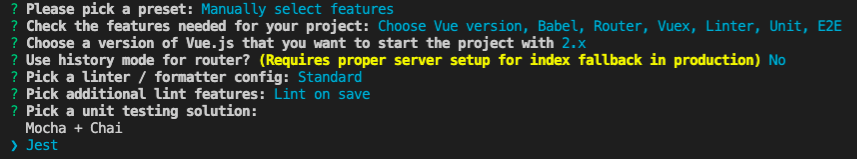
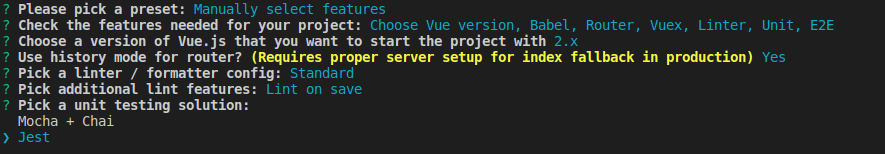
chore(index.md) audited twice

Changed region(s): [[0.0, 0.0, 1.0, 0.961]]

diff --git a/docs/01-vue-cli-install.md b/docs/01-vue-cli-install.md
@@ -6,74 +6,91 @@ nav_order: 1
 
 # Creando un proyecto usando CLI y framework UI
 
-Comenzaremos creando un proyecto a través de la línea de comandos de Vue. Si no la tienes puedes instalarla con el siguiente comando
+Comenzaremos creando un proyecto a través de la línea de comandos de Vue. Si no la tienes puedes instalarla con el siguiente comando.
 
 ```bash
 npm install -g @vue/cli
 ```
 
-Una vez instalado navegamos por la terminal hacia el directorio donde queremos crear el proyecto y ejecutamos el siguiente comando:
+Una vez instalada, navegamos por la terminal hacia el directorio donde crearemos el proyecto y ejecutamos el siguiente comando:
 
 ```bash
 vue create <nombre-de-tu-proyecto>
 ```
 
-Deberemos contestar una serie de preguntas. Veamos en detalle que responderemos a cada una de ellas.
+Durante el proceso debemos seleccionar las opciones que Vue CLI configurará por nosotros. Iremos paso a paso detallando el proceso de selección.
 
-1) Seleccionaremos la opción que nos permita seleccionar manualmente las tecnologías que usaremos
-![Imagen de paso 1 de instalación](images/01-vue-cli-install-01.png?raw=true)
+1) En primer lugar nos pregunta si queremos usar un *preset*, pero iremos a la última opción (utilizando las flechas del teclado) y presionamos *enter*. Esto nos permitirá seleccionar manualmente los plugins que usaremos.
+   
+   ![Imagen de paso 1 de instalación](images/01-vue-cli-install-01.png)
 
-2) Utilizando la tecla `espacio` agregaremos las opciones que puedes ver en la siguiente imagen
-![Imagen de paso 2 de instalación](images/01-vue-cli-install-02.png?raw=true)
+2) En la siguiente etapa, utilizando la tecla `espacio`, agregaremos las opciones que puedes ver en la siguiente imagen.
 
-3) Elegiremos la versión 2 de Vue
-![Imagen de paso 3 de instalación](images/01-vue-cli-install-03.png?raw=true)
+   ![Imagen de paso 2 de instalación](images/01-vue-cli-install-02.png)
 
-4) Seleccionar `Y` para configurar History mode y posteriormente haremos la configuración requerida para el servidor en Express. Más detalles en [este link](https://router.vuejs.org/guide/essentials/history-mode.html#html5-history-mode)
-![Imagen de paso 4 de instalación](images/01-vue-cli-install-04.png?raw=true)
+3) Seleccionamos la versión 2 de Vue
+
+   ![Imagen de paso 3 de instalación](images/01-vue-cli-install-03.png)
+
+4) En el siguiente paso seleccionar `Y` para configurar History mode en el router. Posteriormente haremos la configuración requerida en servidor en Express. Más detalles en [este link](https://router.vuejs.org/guide/essentials/history-mode.html#html5-history-mode)
+
+   ![Imagen de paso 4 de instalación](images/01-vue-cli-install-04.png?raw=true)
+
+>**Tip**: En las CLI la opción que se da con mayúscula es la opción por defecto. Por lo que puedes simplemente presionar enter 
+si te pregunta (Y/n) y queremos seleccionar 'Y'
 
 5) Utilizaremos la configuración de Javascript estándar para la herramienta [ESLint](https://eslint.org/). Si quieres conocer más detalles sobre este estándar puedes visitar [este link](https://standardjs.com/)  
-![Imagen de paso 5 de instalación](images/01-vue-cli-install-05.png?raw=true)
 
-6) Selecciona lint on save 
-   ![Lint on save](images/01-vue-cli-install-05-b.png?raw=true)
+   ![Imagen de paso 5 de instalación](images/01-vue-cli-install-05.png)
 
-7) Utilizaremos [Jest](https://jestjs.io/) para crear pruebas de integración en el proyecto.
-![Imagen de paso 6 de instalación](images/01-vue-cli-install-06.png?raw=true)
+6) Continuamos con lint on save para que las correcciones del linter ocurran de forma constante en la medida que desarrollamos  
+   
+   ![Lint on save](images/01-vue-cli-install-05-b.png)
 
-8) Utilizaremos [Cypress](https://www.cypress.io/) para crear pruebas e2e.
-![Imagen de paso 7 de instalación](images/01-vue-cli-install-07.png?raw=true)
+7) En la parte de pruebas unitarias seleccionaremos [Jest](https://jestjs.io/) para crear pruebas de integración. Jest es un framework completo y eficiente para hacer pruebas (viene con *runner*, *aserciones* y trabaja con un *DOM virtual*).
+   
+   ![Imagen de paso 6 de instalación](images/01-vue-cli-install-06.png)
 
-9) Seleccionaremos la opción que nos permite que las configuraciones de las herramientas de desarrollo como `ESLint` tenga su propio archivo de configuración
-![Imagen de paso 8 de instalación](images/01-vue-cli-install-08.png?raw=true)
+8) Seleccionamos [Cypress](https://www.cypress.io/) para crear pruebas e2e. Cypress se está poniendo en duda varios de los paradigmas en torno a las pruebas de alto nivel. Cada vez es más rápido y barato hacer estas pruebas gracias a Cypress. 
 
-10) Finalmente damos enter para utilizar la opción por defecto (por convención es la opción en mayúsculas)
-![Imagen de paso 9 de instalación](images/01-vue-cli-install-09.png?raw=true)
+   ![Imagen de paso 7 de instalación](images/01-vue-cli-install-07.png)
 
-Esto creará una carpeta con la estructura inicial y todo lo necesario para construir nuestra aplicación Frontend.
+9) Seleccionaremos la opción que nos permite que las configuraciones de las herramientas de desarrollo como `ESLint` tenga su propio archivo de configuración.
+ 
+   ![Imagen de paso 8 de instalación](images/01-vue-cli-install-08.png)
 
-Una vez terminada la instalación ingresamos al repositorio recién creado y agregaremos [Vuetify](https://vuetifyjs.com/) (durante el proceso de instalación  vue-cli ejecutó `git init`) utilizando el siguiente comando:
+10) Finalmente damos enter para utilizar la opción por defecto.
+
+   ![Imagen de paso 9 de instalación](images/01-vue-cli-install-09.png)
+
+Esto creará una carpeta con la estructura inicial y todo lo necesario para construir nuestra aplicación Frontend. Durante este proceso Vue CLI configuró [Webpack](https://webpack.js.org/). Webpack es una herramienta que nos permite tener códigos amigables para desarrollar y los trasforma en códigos amigables para el navegador. Esto lo logra aplicando una serie de transformaciones (*loaders*) cada vez de vemos nuestras aplicación ejecutándose en un navegador. Las etapas más importantes que hizo Vue CLI fueron:
+   +  Configurar el uso de *Single file components* (.vue) 
+   +  Configurar Babel para las últimas versiones de ECMAScript
+   +  Activar *Hot Module Replacement* en [webpack-dev-server](https://github.com/webpack/webpack-dev-server) para que al guardar los cambios se reflejen inmediatamente en el navegador
+
+
+Una vez terminada la instalación ingresamos al repositorio recién creado y agregaremos [Vuetify](https://vuetifyjs.com/)  utilizando el siguiente comando:
 
 ```bash
 vue add vuetify
 ```
 
-Vuetify es una de las tantas (Buefy, Element, Bootstrap Vue) librerías de componentes UI de alta productividad para Vue.
+> Decimos *repositorio* porque durante el proceso de instalación  Vue CLI ejecutó `git init` por nosotros.
 
-Nos preguntará si queremos seleccionar algún tipo de configuración. Seleccionaremos la opción predeterminada como muestra la siguiente imagen:
+Vuetify es una de las tantas librerías de componentes UI de alta productividad para Vue (Buefy, Element, Bootstrap Vue, etc).
 
-![Imagen de paso 10 de instalación](images/01-vue-cli-install-10.png?raw=true)
+En este caso sí usaremos el *preset* recomendado por defecto, por lo que seleccionaremos la opción predeterminada como muestra la siguiente imagen:
 
-Ya hemos instalado todo lo necesario para comenzar nuestro proyecto Frontend.
-Al correr el comando `npm run serve` y luego yendo al navegador en la dirección `http://localhost:8080/` veremos lo siguiente:
+![Imagen de paso 10 de instalación](images/01-vue-cli-install-10.png)
 
+Ya hemos instalado todo lo necesario para comenzar nuestro proyecto Frontend. Al correr el comando `npm run serve` e ir al navegador en la dirección `http://localhost:8080/` veremos lo siguiente:
 
-![Imagen resultado final de instalaciones](images/01-vue-cli-install-11.png?raw=true)
+![Imagen resultado final de instalaciones](images/01-vue-cli-install-11.png)
 
-Para finalizar agregaremos los cambios  sumados por Vuetify a Git. Para esto comenzeremos a utilizar el formato de [Conventional Commits](https://github.com/conventional-changelog/commitlint/tree/master/%40commitlint/config-conventional) para escribir los mensajes de commit. Escribamos el siguiente comando:
+Para finalizar este capítulo agregaremos los cambios hechos por Vuetify a Git. En esta guía usaremos el formato de [Conventional Commits](https://github.com/conventional-changelog/commitlint/tree/master/%40commitlint/config-conventional) para escribir los mensajes de los commits. Por lo que nos dirigimos a la terminal y ejecutamos lo siguiente:
 
 ```bash
 git add .
-git commit -m "chore(vuetify): Create Vue project with Vuetify"
+git commit -m "chore(set-up): Create a Vue project with Vue-CLI and Vuetify"
 ```
-Listo! ya estamos preparados para ir al siguiente paso de la construcción del proyecto .
+Listo! Ya estamos preparados para ir al siguiente capítulo y continuar con la construcción del proyecto.

diff --git a/index.md b/index.md
@@ -5,11 +5,11 @@ nav_order: 0
 ---
 # Proyecto de desarrollo ágil: Aplicación Fullstack Javascript 
 
-Esta guía es parte del proyecto final del curso Fullstack Javascript para programadores. Está enfocado en aplicar los conocimientos del curso más la metodología de desarrollo ágil en un proyecto digital utilizando javascript en todo el stack. Se ejemplifican técnicas profesionales de refactorización y mejora contínua para solucionar bugs y mejorar la calidad y flexibilidad del código. 
+Esta guía es parte del proyecto final del curso Fullstack Javascript para programadores. Está enfocado en aplicar los conocimientos del curso más la metodología de desarrollo ágil en un proyecto digital utilizando javascript en todo el stack. Se ejemplifican técnicas profesionales de refactorización que permiten entre otras cosas solucionar bugs y mejorar la calidad y flexibilidad del código. 
 
 **Con esta guía el estudiante podrá:**
-  1) Poner en producción el resultado de un sprint que será la base para su futura personalización. 
-  2) Practicar técnicas para trabajar con aplicaciones *legacy* mediante pruebas 
+  1) Poner en producción el resultado de un sprint que será la base para su futura personalización y proyecto final del curso. 
+  2) Practicar técnicas para trabajar con aplicaciones *legacy* mediante pruebas. 
 
 **Advertencia**
 > En Boolean creemos que la metodología de desarrollo es tanto o más importante que las tecnologías o frameworks. En otras palabras, la metodología usada en esta guía aplica a cualquier combinación de frameworks o librerías Javascript (React, Angular, Koa, etc). La elección específica de las herramientas se hizo considerando alta productividad con baja curva de aprendizaje para enfocarnos en el uso del lenguaje Javascript en un proceso de desarrollo Ágil.   
